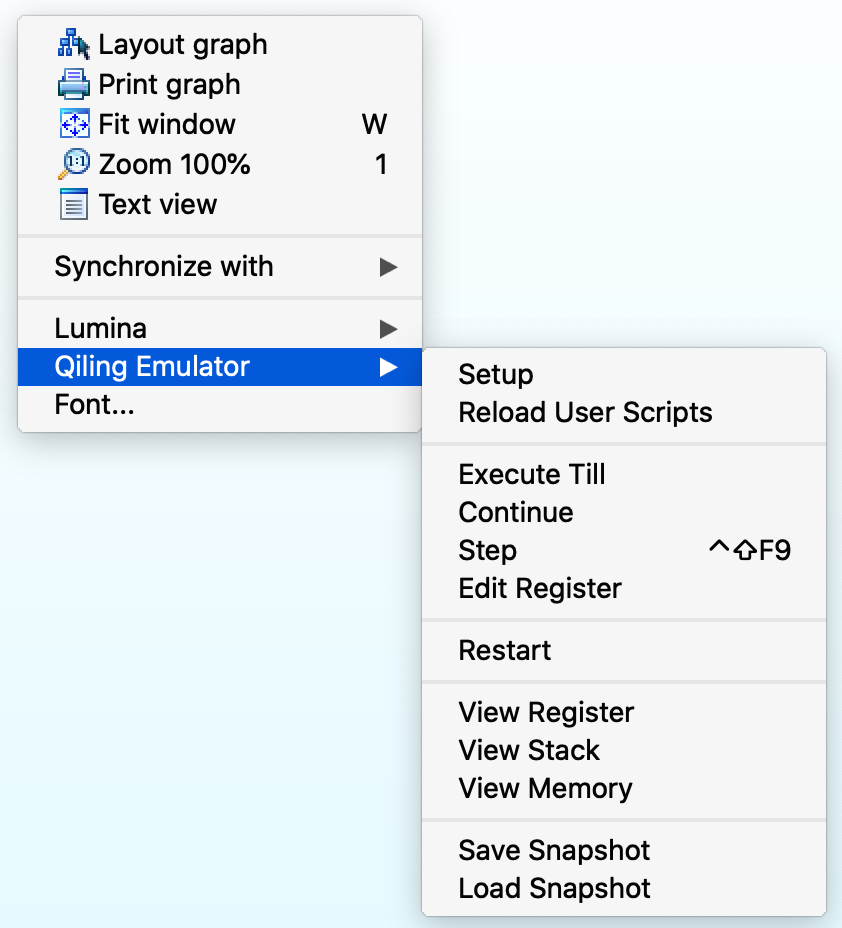
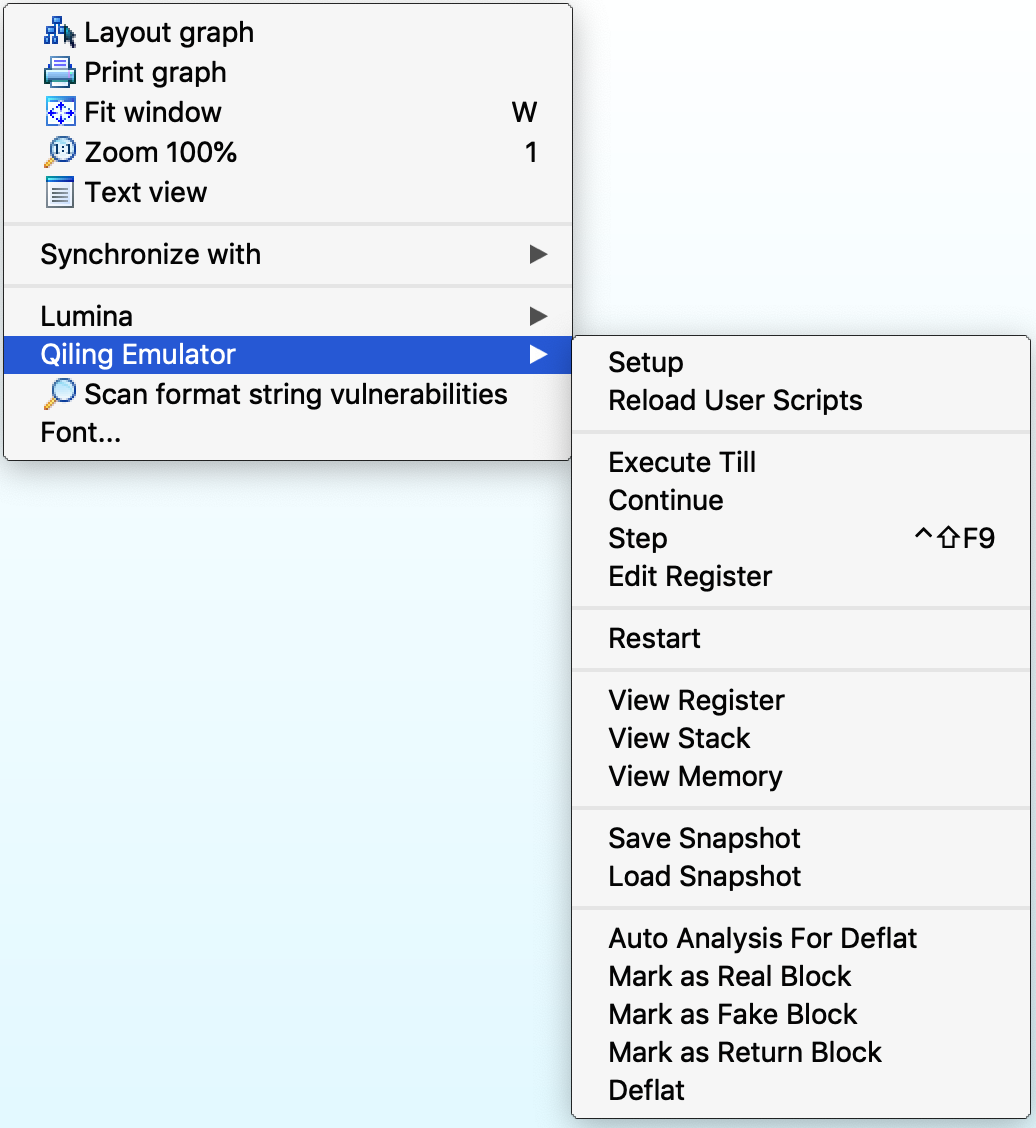
Rewrite IDA docs

Changed region(s): [[0.0, 0.0, 1.0, 1.0], [0.4323, 0.125, 0.4632, 0.1875]]

diff --git a/docs/ida.md b/docs/ida.md
@@ -1,18 +1,60 @@
 ---
-title: Guide to Qiling Emulator + IDA Pro
+title: Guide to integrate Qiling Framework with IDA Pro
 ---
 
 ### Introduction
 
-This a plugin for [IDA Pro](https://www.hex-rays.com/products/ida/) which enables IDA Pro and [Qiling](https://github.com/qilingframework/qiling) to interact. In this way, IDA Pro can debug, emulate and instrument binaries for multiple platforms and architectures from one single operation system.
+[IDA Pro](https://www.hex-rays.com/products/ida/) is one of the most powerful static analysis tools while Qiling is a modern, advanced dynamic instrumentation analysis framework. To combine the advantages of both products, we present the Qiling IDA plugin, which enhances the experience of reverse engineering to a much higher level.
 
-With the customizable scripting capability, it takes the plugin to higher level. Hooking codes and addresses, dynamic hotpatch on-the-fly, hijack loaded library, hijack syscall and other advanced API from Qiling Frame are able to perform within IDA Pro's powerful disassembly and decompile interface.
+The main features of the plugin are:
 
-All of these can be achieved on one computer, no remote debug server or no virtual machine ever needed.
+- [Cross systems, platforms and architectures without any virtualization technology.](#cross-systems-platforms-and-architectures)
+- Load, run and debug the binary.
+- View register, stack and memory in standalone windows.
+- Custom user scripts.
+- Program snapshots.
+- Ollvm de-obfuscation support.
 
----
+A demo video about decrypting Mirai's secret with Qiling IDA plugin is available below:
 
-### Support platform & architecture
+[![Qiling's IDA Pro Plugin: Instrument and Decrypt Mirai's Secret](https://i.ytimg.com/vi/ZWMWTq2WTXk/0.jpg)](https://www.youtube.com/watch?v=ZWMWTq2WTXk)
+
+### Installation
+
+Before installing the plugin, Qiling should installed properly, either a stable version or a dev version. See [installation](install.md) for details.
+
+There are two ways to install the plugin.
+
+#### Use as an IDA Pro plugin
+
+- Make a symbol link to IDA Pro plugins directory.
+
+```bash
+# Linux
+ln -s /absolute/path/to/qiling/extensions/idaplugin/qilingida.py /path/to/your/ida/plugins/
+
+# Macos
+ln -s /absolute/path/to/qiling/extensions/idaplugin/qilingida.py /Applications/<Your IDA>/ida.app/Contents/MacOS/plugins/
+
+# Windows
+mklink C:\absolute\path\to\IDA\plugins\qilingida.py D:\absolute\path\to\qiling\extensions\idaplugin\qilingida.py
+```
+
+Copying `qilingida.py` to IDA Pro plugin folder directly will also work, but considering the development of Qiling is always on the fast ring, a symbol link can save lots of tedious copy-and-paste work.
+
+#### Use as a script file
+
+- Start IDA Pro, click `File/Script file...`, choose the `qilingida.py` and the plugin will be loaded automatically.
+
+Once loaded, the plugin is available under "Edit->Plugins->Qiling Emulator" and popup menu.
+
+The plugin supports IDA Pro 7.x with Python3.6+.
+
+Recommended platforms: MacOS & Linux
+
+### Cross systems, platforms and architectures
+
+Most emulation is supported natively by Qiling Framework, Below is a table for details.
 
 | |8086|x86|x86-64|ARM|ARM64|MIPS|
 |---|---|---|---|---|---|---|
@@ -24,86 +66,65 @@ All of these can be achieved on one computer, no remote debug server or no virtu
 | DOS (COM)       | &#9745; | -       | -       | -       | -       | -       |
 | MBR             | &#9745; | -       | -       | -       | -       | -       |
 
----
+- \- : Not apply.
+- &#9744;: Not supported.
+- &#9745;: Support.
 
-### Demo video
+### Load, run and debug
 
-Let’s look at the quick Qiling + IDA Pro Plugin Demo: Instrument and Decrypt Mirai's Secret
+To run the current binary in IDA with Qiling, two things are supposed to be provided: rootfs and user custom script.
 
-[![Qiling's IDA Pro Plugin: Instrument and Decrypt Mirai's Secret](https://i.ytimg.com/vi/ZWMWTq2WTXk/0.jpg)](https://www.youtube.com/watch?v=ZWMWTq2WTXk)
+`rootfs` is the root directory of emulated environment. Usually, the `/path/to/qiling/examples/rootfs/<arch>` directory should work for most cases. `user custom script` provides custom callbacks before running the binary, continuing or single stepping and a good example can be found [here](https://github.com/qilingframework/qiling/blob/dev/qiling/extensions/idaplugin/examples/custom_script.py).
 
----
+To setup the plugin, right click at anywhere and find "Qiling Emulator".
 
-### Usage
+![](img/ida1.png){: style="height: 400px"}
 
-There are two methods to use the plug-in
-    - Load and Run
-    - With Instrumentation Script
-    
----
+Select "setup first" and a window is pop up for the `rootfs` and `custom user script`.
 
-### Load and Run
-- After loading the plugin, right-click will show “Qiling Emulator” under the pop-up menu
+![](img/ida2.png){: style="width: 60%"}
 
-![](img/ida1.png)
+A successful load will prompts "User Script Load" in the output window below. Otherwise, "There Is No User Scripts" will show up in the output window instead.
 
-- **Click Setup First**
+![](img/ida3.png){: style="width: 60%"}
 
-- Select rootfs path and click Start (input custom script path if you have)
+At this time, Qiling has finished parsing the binary, loading it into the memory, setting the PC to the entry point and preparing everthing ready for the following execution. Thus, user only needs to click `Continue` in the menu and Qiling will run the target binary from the entry point to the end. At the same time, Qiling IDA plugin will render the executed path to green for later analysis.
 
-- If the custom script is loaded successfully, it will prompt 'User Script Load'. Otherwise, it will prompt 'There Is No User Scripts', please check if the script path and syntax are correct
+![](img/ida4.png){: style="height: 400px"}
 
-![](img/ida2.png)
+To restart the emulation, select `Restart` in the menu and fill in the `rootfs` and `custom user script` again.
 
-![](img/ida3.png)
+Except simply loading and running the binary, the Qiling IDA plugin is also capable of debugging the binary.
 
-- Now click `Continue`, Qiling will emulate the target from start (entry_point) to finish (exit_point) and paint the path green
+For example, to execute until current position, simply right-click at any address (e.g. 0x804851E for the screenshot below) and select `Execute Till`. Qiling will stop at your cursor as well as color its path with a different color.
 
-![](img/ida4.png)
+![](img/ida6.png){: style="height: 400px"}
 
-- To start all over, click `Restart`, it will clear the previous color and ask rootfs path again, then we are back to the start
+To view registers and stack, select `View Register` and `View Stack`.
 
-- Now try something new, we want to let Qiling stop at 0x0804851E
+![](img/ida7.png){: style="height: 500px"}
 
-![](img/ida5.png)
+To view Memory, click `View Memory` and fill in the address and size of memory.
 
-- Just move the mouse pointer to position 0x0804851E and right-click, select `Execute Till`, Qiling will emulate to 0x0804851E(if the path is reachable), and paint the address node
+![](img/ida8.png){: style="width: 60%"}
 
-![](img/ida6.png)
+![](img/ida9.png){: style="width: 60%"}
 
-- To watch Register and Stack, just by clicking `View Register`, `View Stack`
+Click `Step` or press `CTRL+SHIFT+F9` to let Qiling step a single instruction. Note the register view and stack view mentioned just now will be updated synchronically.
 
-![](img/ida7.png)
+![](img/ida10.png){: style="height: 500px"}
 
-- To watch Memory, click `View Memory` and input address and size of memory
+IDA breakpoints are also supported. Press `F2` to set a breakpoint, select `Continue` and Qiling will stop at the breakpoint.
 
-![](img/ida8.png)
+![](img/ida12.png){: style="height: 400px"}
 
-![](img/ida9.png)
+CPU registers can also be edited in the register view window. Right-click on the register, select `Edit Register` and input new value.
 
-- Click `Step` or use `CTRL+SHIFT+F9` to let Qiling step in and paint the path blue
+![](img/ida13.png){: style="width: 60%"}
 
-- **You can see 'Register View' and 'Stack View' in real-time**
+### Custom user scripts
 
-![](img/ida10.png)
-
-- In 0x0804852C. Let's enter the function sub_8048451 and press `F2` to set up a breakpoint at 0x08048454
-
-![](img/ida11.png)
-
-- Click `Continue`, it will emulate until the program exit or stop when a breakpoint is triggered and paint the path green
-
-![](img/ida12.png)
-
-- How about updating CPU register. Right-click on Disassemble View or Register View and select `Edit Register`, right-click on the register, then select `Edit Value` to change it
-
-![](img/ida13.png)
-
----
-
-### With Customized scripts
-
-- Debugging with instrumentation always requires a user defined script. For example
+Below is a minimum custom user scripts without any special functions.
 
 ```python
 from qiling import *
@@ -124,11 +145,13 @@ class QILING_IDA():
         return hook
 ```
 
-- custom_continue or custom_step simply means own implementation of `Continue` or `Step`. With this, user is able to add all the instrumentation APIs mentioned in [Qiling Framework documents](https://docs.qiling.io) such as file system hijack, update memory or CPU register and all other advanced APIs from Qiling Framework
+Except for `__init__`, the three other functions will be called in specific time to allow users to have a better control of the execution.
 
-- In order to load user customized script, please click Setup and input rootfs path and custom script path
+- `custom_prepare` will be called before the plugin calls `ql.run`.
+- `custom_continue` will be called when user would like to continue execution.
+- `custom_step` will be called when user steps an instruction.
 
-- This is an example at qiling/extensions/idaplugin/examples/custom_script.py
+Below is a slightly complicated example.
 
 ```python
 from qiling import *
@@ -150,121 +173,81 @@ class QILING_IDA():
         hook.append(ql.hook_code(continue_hook))
         return hook
 
-    def custom_step(self, ql:Qiling, stepflag):
-        def step_hook1(ql, addr, size, stepflag):
-            if stepflag:
-                stepflag = not stepflag
-                print(hex(addr))
+    def custom_step(self, ql:Qiling):
+        def step_hook1(ql, addr, size):
+            print(hex(addr))
 
         def step_hook2(ql):
             print('arrive to 0x0804845B')
 
         print('user step hook')
         hook = []
-        hook.append(ql.hook_code(step_hook1, user_data=stepflag))
+        hook.append(ql.hook_code(step_hook1))
         hook.append(ql.hook_address(step_hook2, 0x0804845B))
         return hook
 ```
 
-- Execute Till 0x08048452 and try to Step, custom_step hook will show
+Note taht the hook list is returned since the plugin will delete user's hooks after each action.
 
-![](img/ida14.png)
+Below are the screenshots when user tries to step an instruction
 
-- Set breakpoint at 0x080484F6 and click `Continue`, custom_continue hook will show
+![](img/ida14.png){: style="height: 400px"}
 
-![](img/ida15.png)
+and when user tries to continue.
 
-**Change the custom script to take effect immediately?**
-- Just save the script and click `Reload User Scripts`. If reload is succeeded, it will show 'User Script Reload'
+![](img/ida15.png){: style="height: 300px"}
 
----
+The plugin can also reload user scripts dynamically. Edit and save your script, select `Reload User Scripts` and all modifications will take effect.
 
-### Save and Load Snapshot
-- User can save current excution state (That includes Register, Memory, CPU Context), by just clicking `Save Snapshot`
-or `Load Snapshot`
+### Save and load snapshot
 
-- For saving current state, user should select the path to save the file
+A snapshot is a save of current context, which can be restored anytime in a second. To save a snapshot, select `Save Snapshot` from menu and fill in the path.
 
 ![](img/ida_save.png)
 
-- Screen shot below shows how to load the saved state and continue execution
+To restore a snapshot, select `Load Snapshot`.
 
 ![](img/ida_load.png)
 
----
+### Ollvm de-obfuscation
 
-### Ollvm De-flatten
+#### De-flatten
 
-[ollvm](https://github.com/obfuscator-llvm/obfuscator) is an obfuscator based on LLVM. One of its obfuscation is [Control Flow Flattening](https://github.com/obfuscator-llvm/obfuscator/wiki/Control-Flow-Flattening). With Qiling IDA plugin, Qiling and IDA Pro can de-flatten obfuscated binary easily.
+[ollvm](https://github.com/obfuscator-llvm/obfuscator) is an obfuscator based on LLVM. One of its obfuscation technique is [Control Flow Flattening](https://github.com/obfuscator-llvm/obfuscator/wiki/Control-Flow-Flattening). With Qiling IDA plugin, such flattened control flows can be restored easily.
 
-- Contro Flow Flattening will generate four types of blocks: real blocks, fake blocks, dispatcher blocks and return blocks
+Note we use **Delaft** as an abbreviation of `De-flatten` in docs and plugin.
 
-    - Real blocks: The real logic in original binary
-    - Fake blocks: The fake logic in obfuscated code
-    - Dispatcher blocks: Something like `switch...case...case...` implementation, decide the following control flows
-    - Return blocks: The blocks which exit the function
+Control Flow Flattening will generate four types of blocks: real blocks, fake blocks, dispatcher blocks and return blocks
 
-- To deflat the function, first task is to identity such blocks. Qiling + IDA Pro plugin perform some level of auto analysis by clicking `Auto Analysis For Deflat`. **Note: by settings up the enviroment properly**
+- Real blocks: The real logic in original binary
+- Fake blocks: The fake logic in obfuscated code
+- Dispatcher blocks: Something like `switch...case...case...` implementation, decide the following control flows
+- Return blocks: The blocks which exit the function
 
-![](img/deflat.png)
+To deflat the function, the first task is to identity such blocks. Qiling IDA plugin will perform some auto analysis by clicking `Auto Analysis For Deflat`. Note that [the basic setup]() should be done before analysis.
 
-- After that, the blocks of the function will be rendered with different colors:
+![](img/deflat.png){: style="height: 400px"}
 
-    - Green: Real blocks.
-    - Blue: Dispatcher blocks.
-    - Gray: Fake blocks.
-    - Pink: Return blocks.
-    - Yellow: The first block.
+After that, the blocks of the function will be rendered with different colors:
 
-![](img/deflat2.png)
+Green: Real blocks.
+Blue: Dispatcher blocks.
+Gray: Fake blocks.
+Pink: Return blocks.
+Yellow: The first block.
 
-- In this stage, user is able to adjust the analysis result by marking the block as real, fake or return blocks
+![](img/deflat2.png){: style="height: 500px"}
 
-- During this stage, decompile the binary with human readble code is still not possible
+In this stage, user is able to adjust the analysis result by marking the block as real, fake or return blocks.
 
-![](img/deflat3.png)
+During this stage, the result of IDA decompiler is almost impossible to read.
 
-- In order make the obfucated binary easier to understand, click `Deflat`, Qiling + IDA Pro plugin will start to find the real control flow between real blocks and remove all fake blocks and dispatcher blocks. Below is the result:
+![](img/deflat3.png){: style="width: 60%"}
 
-![](img/deflat4.png)
+After each block is marked properly, select `Deflat` and the plugin will start to find real control flows between real blocks and remove all fake blocks and dispatcher blocks. Below is the result:
 
-- Now by pressing F5 now show the deobfuscation decompiled code
+![](img/deflat4.png){: style="height: 500px"}
 
-![](img/deflat5.png)
+Pressing F5 now shows the decompiled code without any obfuscation.
 
----
-### Additional Notes: Install Qiling
-
-To install Qiling Framework. See The [Installation](https://docs.qiling.io/en/latest/install/) guide.
-
----
-
-### Additional Notes: Install IDA Pro plugin
-
-There are two ways to install Qiling + IDA Pro plugin.
-
-#### i. Use as an IDA Pro plugin
-
-- Make a symbol link to your IDA Pro plugins directory.
-
-```bash
-# Macos
-ln -s /absolute/path/to/qiling/extensions/idaplugin/qilingida.py /Applications/<Your IDA>/ida.app/Contents/MacOS/plugins
-
-# Windows
-mklink C:\absolute\path\to\IDA\plugins\qilingida.py D:\absolute\path\to\qiling\extensions\idaplugin\qilingida.py
-```
-
-The advantage of symbol link is that user can always get the updated the plugin by just `git pull`. Copy `qilingida.py` to IDA Pro plugin folder will work too.
-
----
-
-#### ii. Use as a script file
-
-- Start IDA Pro, Click `File/Script file...`, choose the `qilingida.py` and the plugin will be loaded
-
-Once loaded, the plugin is available under "Edit->Plugins->Qiling Emulator" and popup menu.
-
-This plugin supports IDA Pro 7.x with Python3.6+.
-
-Recommended platforms: MacOS & Linux
+![](img/deflat5.png){: style="height: 400px"}
